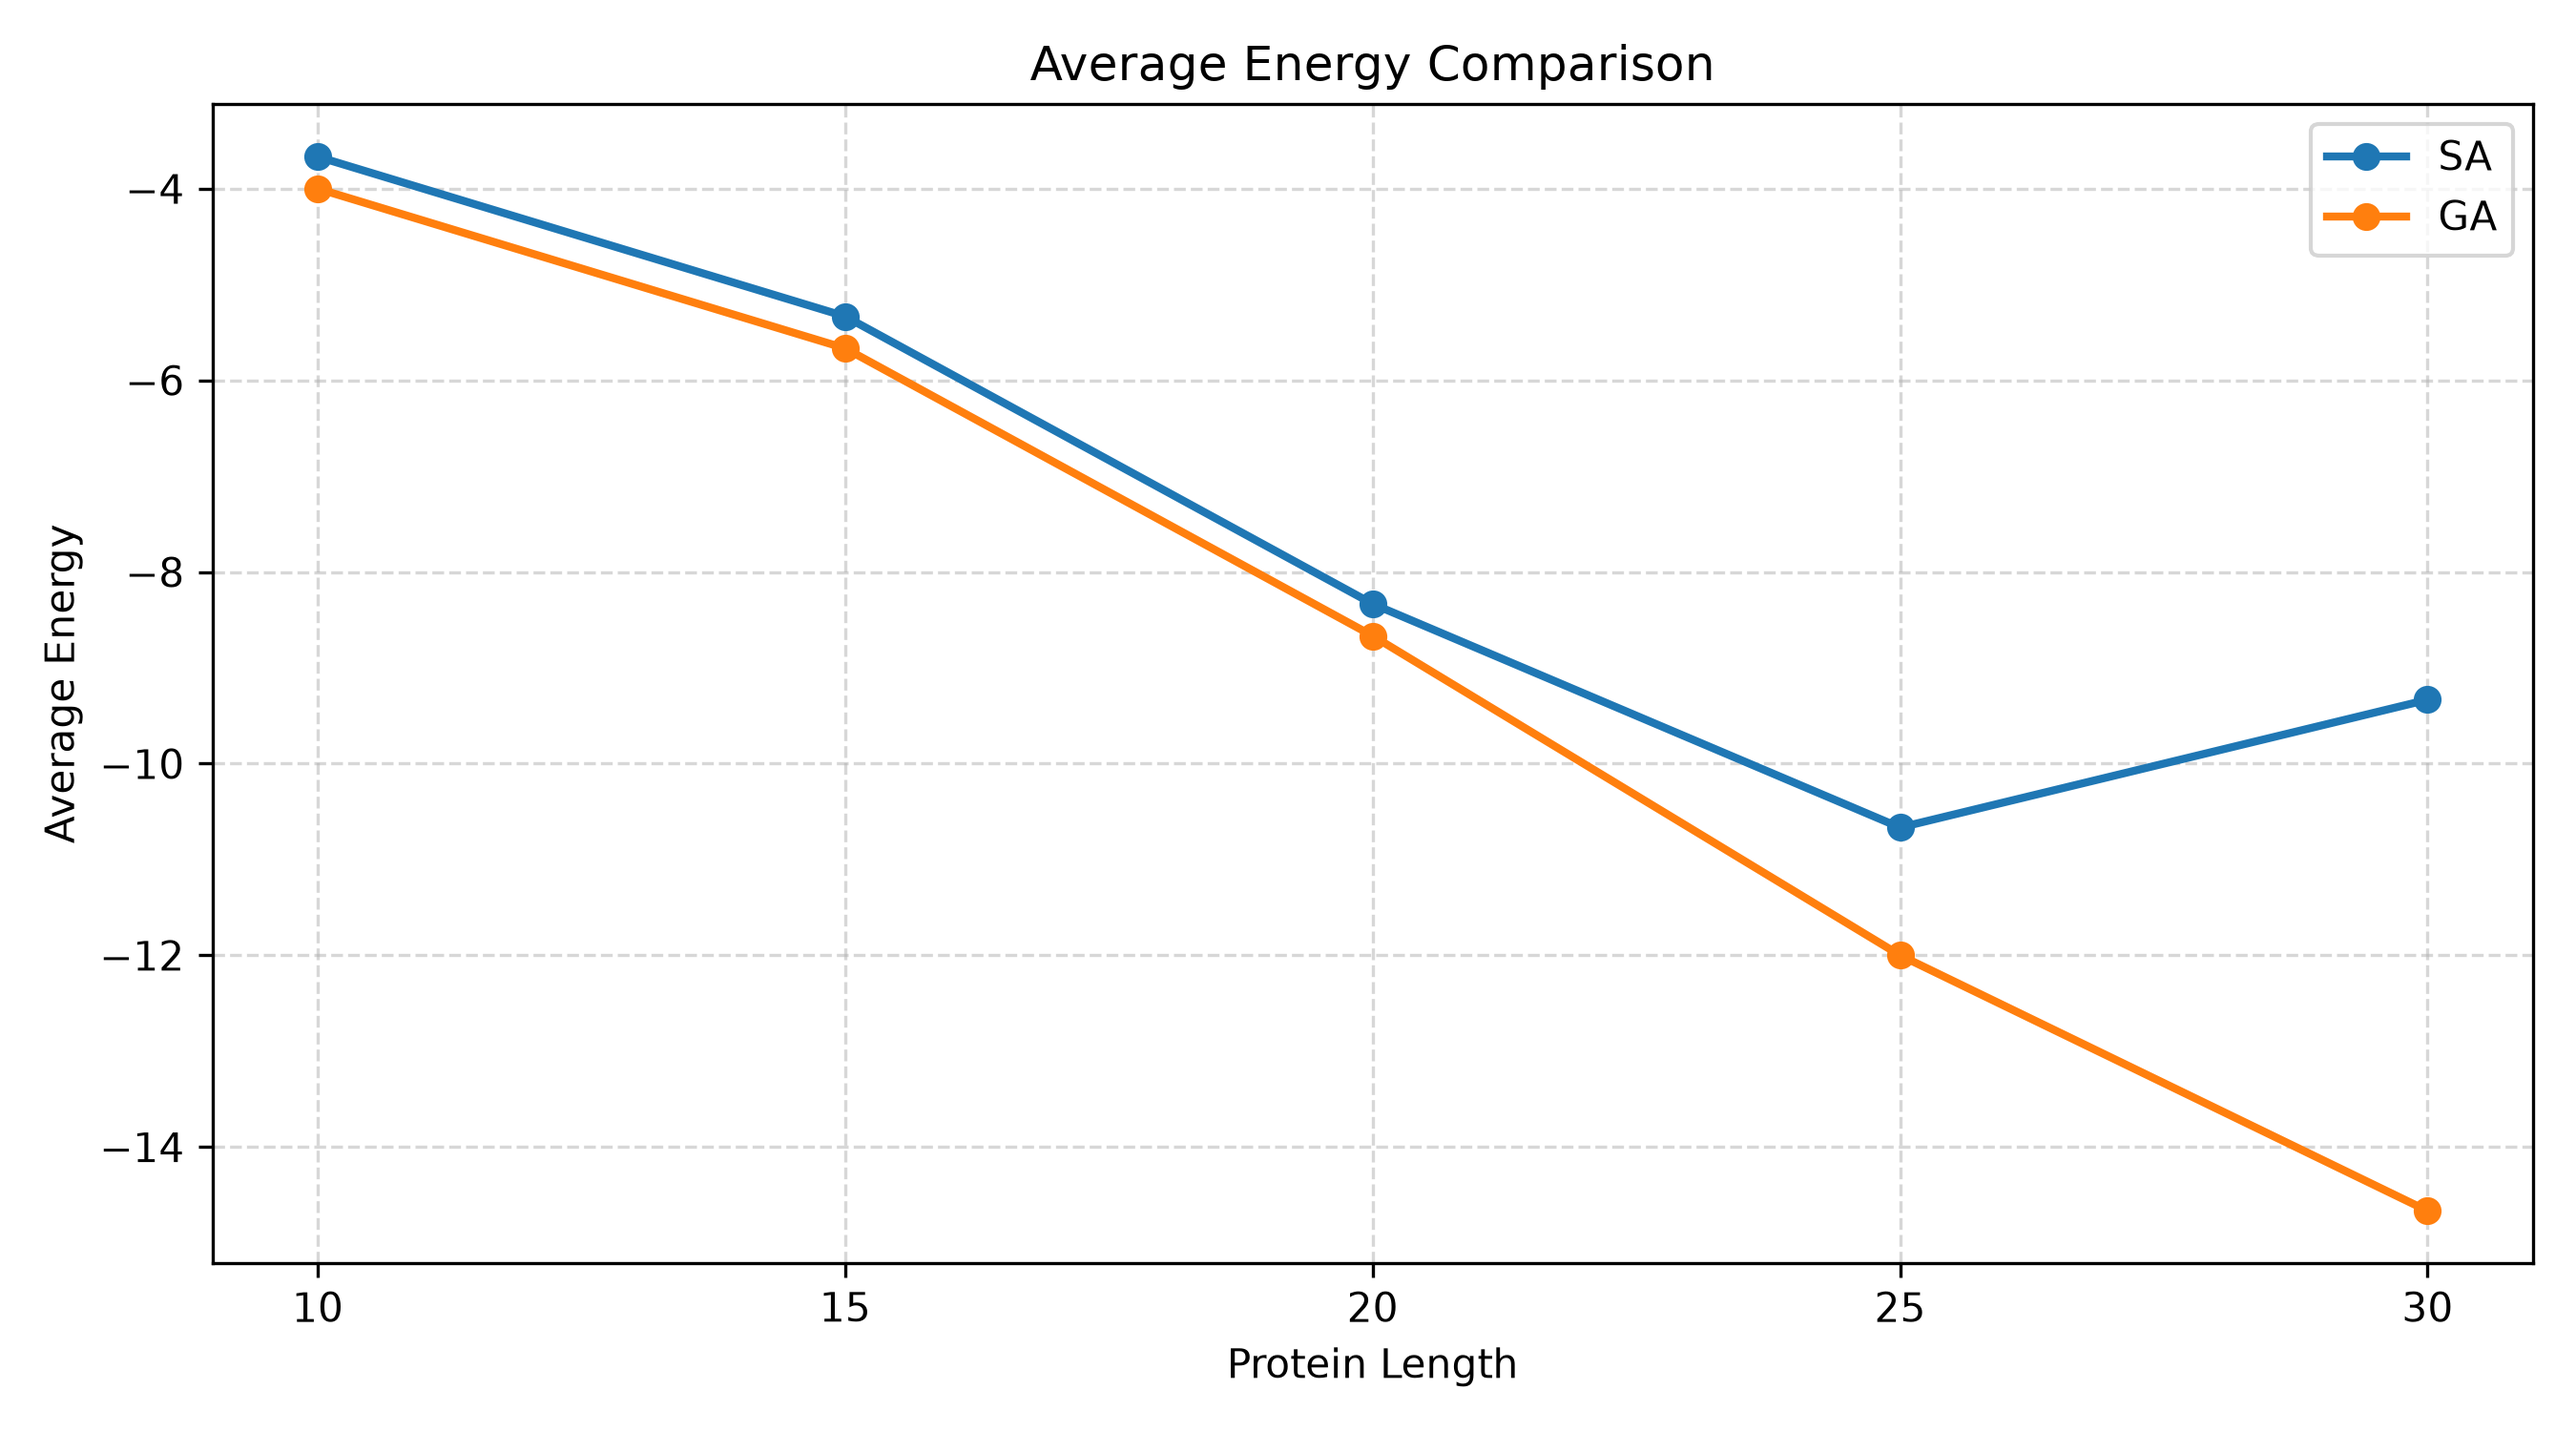
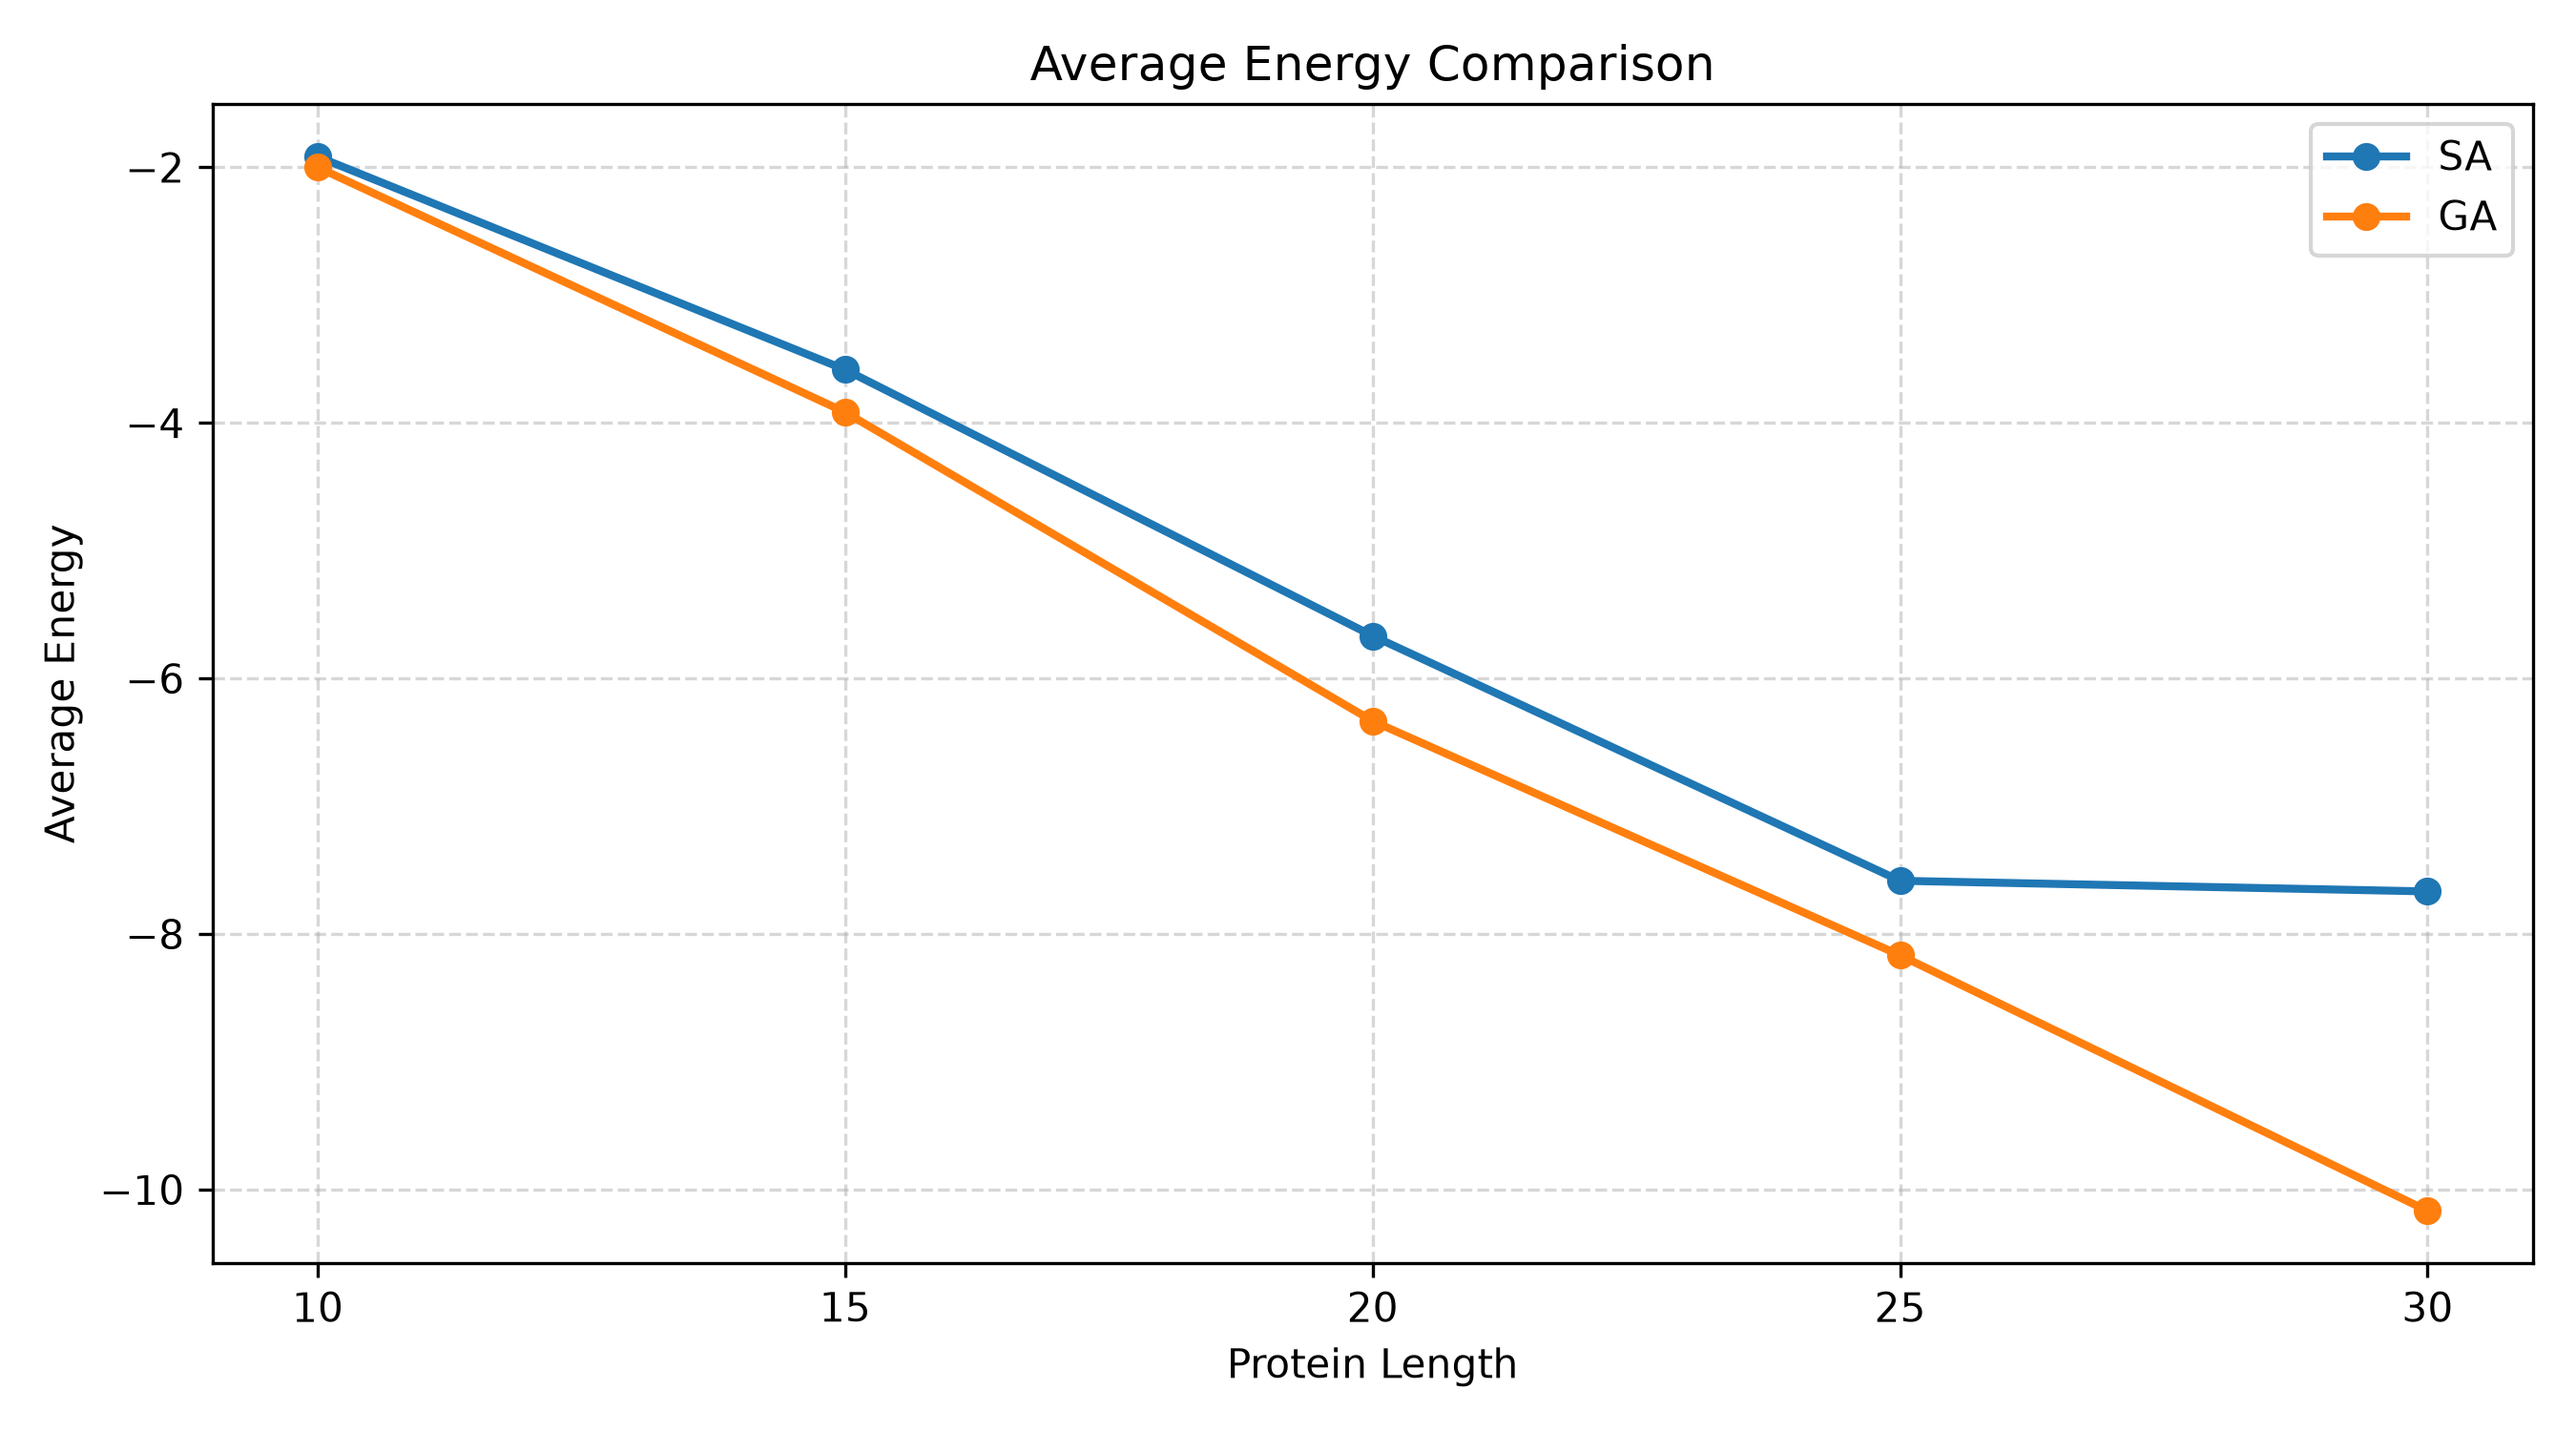
Update test_genetic_algorithm.py

diff --git a/tests/test_genetic_algorithm.py b/tests/test_genetic_algorithm.py
@@ -4,6 +4,7 @@ import unittest
 
 from protein.representation.structure import ProteinStructure
 from protein.representation.constraints import is_valid_structure
+
 from evaluation.energy import calculate_energy
 from algorithms.genetic_algorithm import genetic_algorithm
 
@@ -12,8 +13,11 @@ class TestGeneticAlgorithm(unittest.TestCase):
 
     def setUp(self):
         random.seed(42)
+
         self.hp_sequence = "HHPHHP"
-        self.initial_structure = ProteinStructure(self.hp_sequence)
+        self.initial_structure = ProteinStructure(
+            self.hp_sequence
+        )
 
     def test_initial_structure_is_valid(self):
         self.assertTrue(
@@ -29,8 +33,14 @@ class TestGeneticAlgorithm(unittest.TestCase):
             crossover_rate=0.8
         )
 
-        self.assertTrue(is_valid_structure(best_structure))
-        self.assertEqual(best_energy, calculate_energy(best_structure))
+        self.assertTrue(
+            is_valid_structure(best_structure)
+        )
+
+        self.assertEqual(
+            best_energy,
+            calculate_energy(best_structure)
+        )
 
     def test_energy_history_is_non_increasing(self):
         _, _, history = genetic_algorithm(
@@ -44,7 +54,10 @@ class TestGeneticAlgorithm(unittest.TestCase):
         self.assertEqual(len(history), 6)
 
         for i in range(1, len(history)):
-            self.assertLessEqual(history[i], history[i - 1])
+            self.assertLessEqual(
+                history[i],
+                history[i - 1]
+            )
 
     def test_algorithm_returns_statistics(self):
         result = genetic_algorithm(
@@ -60,8 +73,22 @@ class TestGeneticAlgorithm(unittest.TestCase):
 
         best_structure, best_energy, history, statistics = result
 
-        self.assertTrue(is_valid_structure(best_structure))
-        self.assertIsInstance(best_energy, int)
+        self.assertTrue(
+            is_valid_structure(best_structure)
+        )
+
+        # Energy can be int or float because
+        # hydrophobic contact weight is configurable.
+        self.assertIsInstance(
+            best_energy,
+            (int, float)
+        )
+
+        self.assertEqual(
+            best_energy,
+            calculate_energy(best_structure)
+        )
+
         self.assertEqual(len(history), 6)
 
         self.assertIn("candidate_configurations", statistics)
@@ -71,6 +98,30 @@ class TestGeneticAlgorithm(unittest.TestCase):
         self.assertIn("unique_structures", statistics)
         self.assertIn("energy_evaluations", statistics)
         self.assertIn("elimination_percentage", statistics)
+
+    def test_algorithm_supports_custom_energy_weight(self):
+        result = genetic_algorithm(
+            self.initial_structure,
+            population_size=6,
+            generations=5,
+            mutation_rate=0.3,
+            crossover_rate=0.8,
+            return_stats=True,
+            hydrophobic_contact_weight=2.0
+        )
+
+        best_structure, best_energy, history, statistics = result
+
+        expected_energy = calculate_energy(
+            best_structure,
+            hydrophobic_contact_weight=2.0
+        )
+
+        self.assertEqual(best_energy, expected_energy)
+
+        self.assertTrue(
+            is_valid_structure(best_structure)
+        )
 
 
 if __name__ == "__main__":
